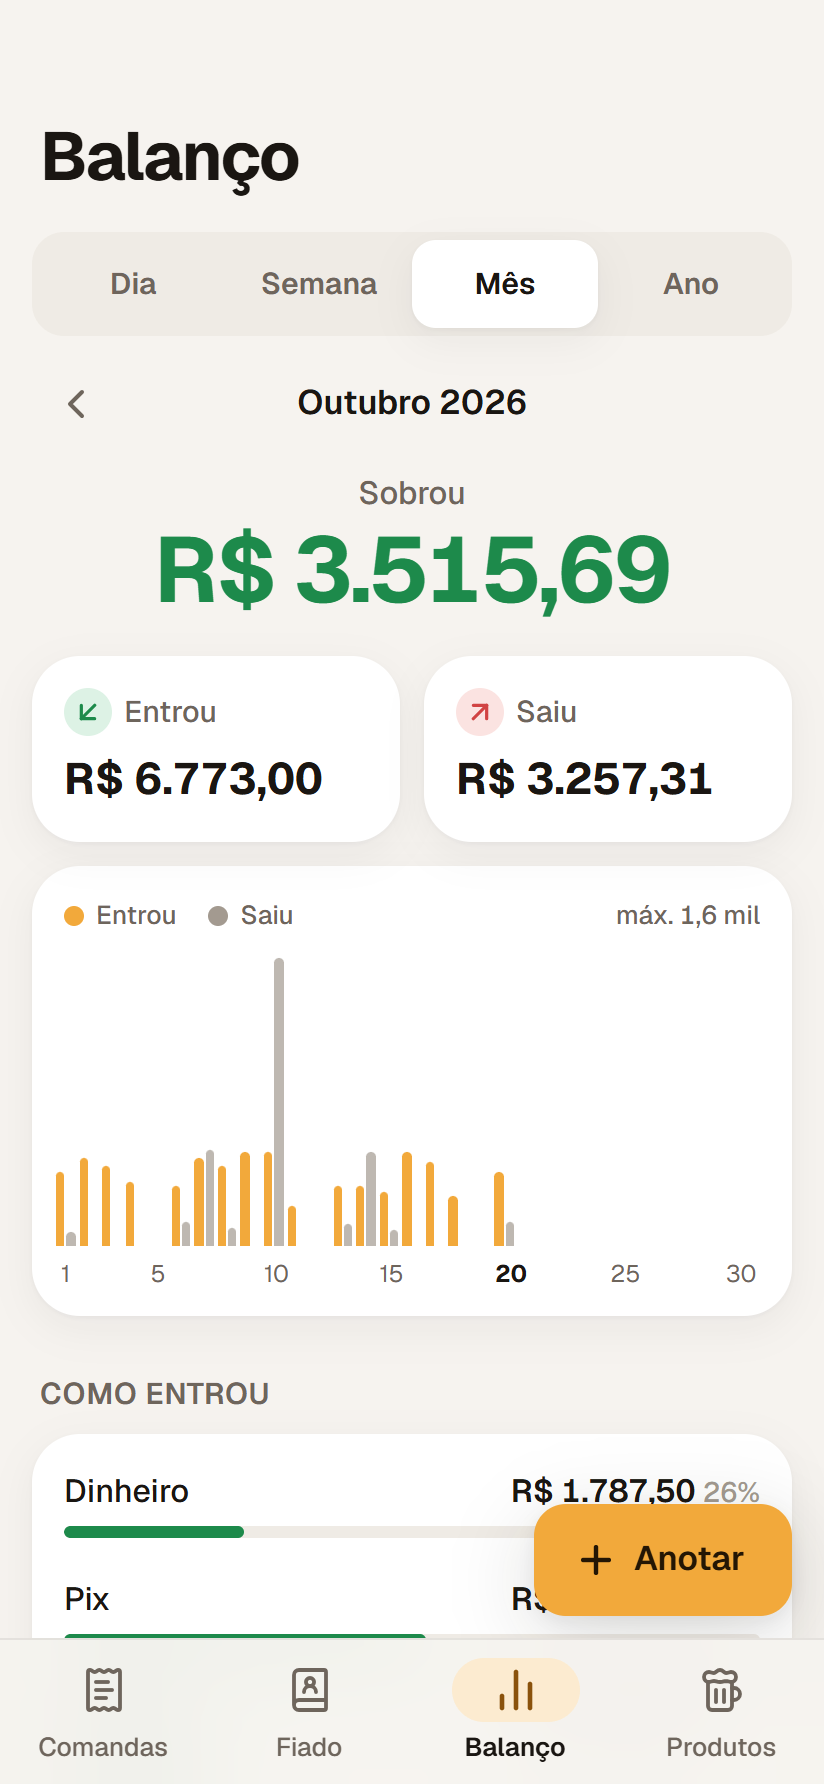
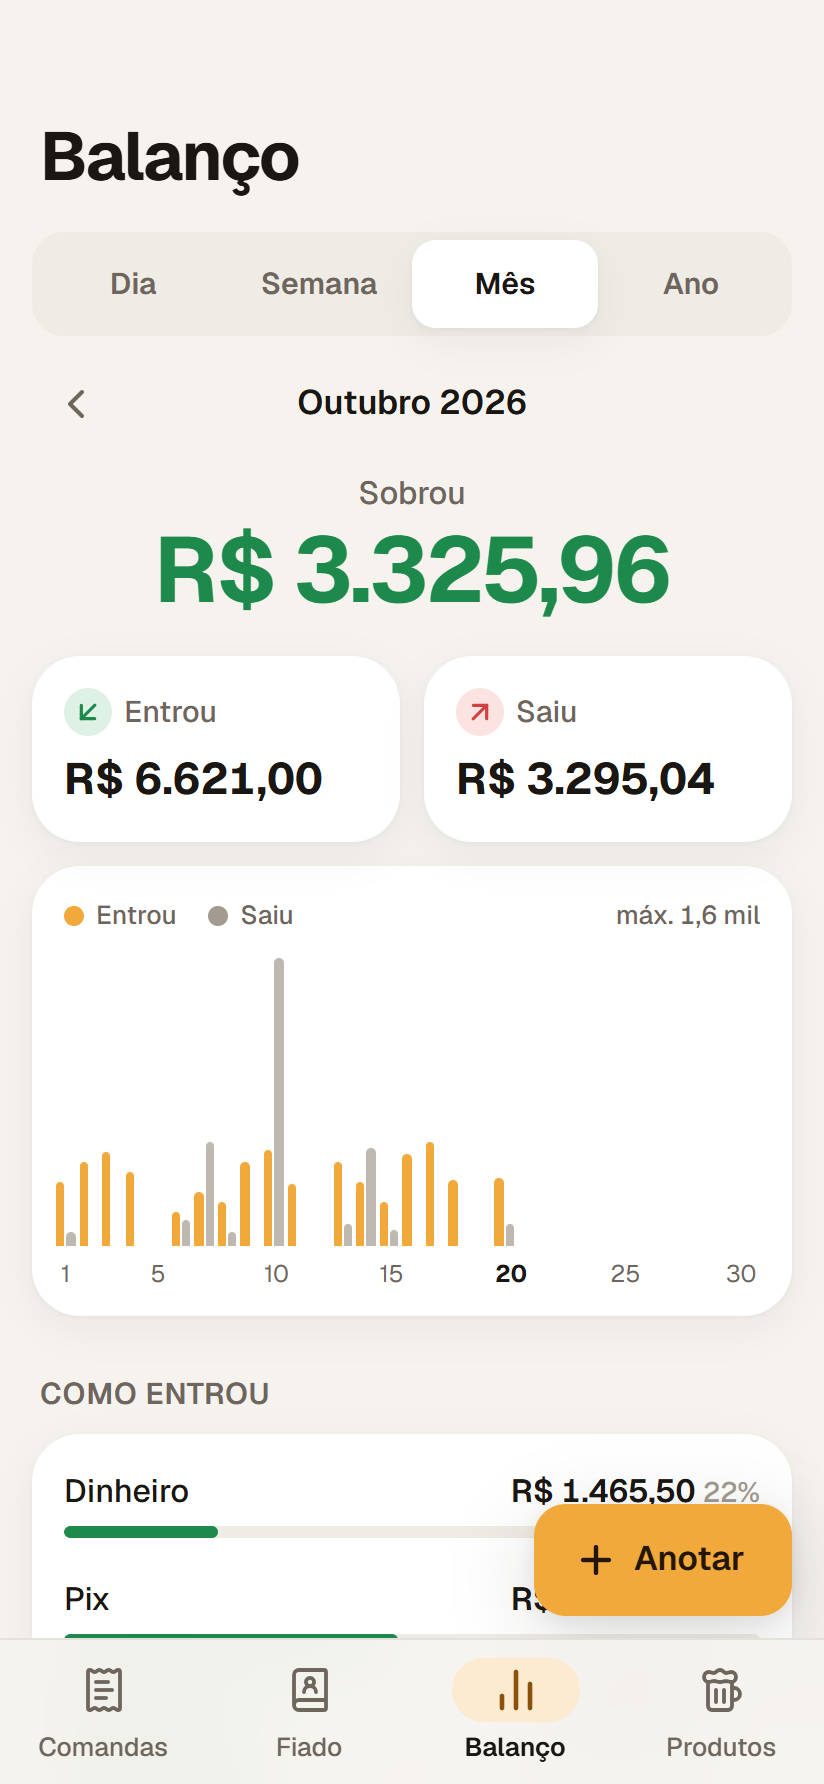
Nova comanda só pelo nome (o bar não tem mesas numeradas)
- Painel Nova comanda com apenas o campo de nome, já focado
- Aviso com atalho quando o nome já tem comanda aberta
- Dados demo sem mesas; prints, manual, README e changelog atualizados

diff --git a/src/pages/Comandas.tsx b/src/pages/Comandas.tsx
@@ -5,7 +5,7 @@ import { ChevronRight, Plus, ReceiptText } from "lucide-react";
 import { useDados } from "@/context/DadosContext";
 import { CabecalhoAba } from "@/components/Cabecalho";
 import { Sheet } from "@/components/Sheet";
-import { Botao, BotaoFlutuante, Campo, Cartao, Chip, Vazio } from "@/components/ui";
+import { Botao, BotaoFlutuante, Campo, Cartao, Vazio } from "@/components/ui";
 import { reais, totalItens } from "@/lib/dinheiro";
 import { haQuantoTempo } from "@/lib/datas";
 
@@ -71,22 +71,19 @@ export function Comandas() {
   );
 }
 
-/** Painel "Nova comanda": um toque num atalho já abre; ou digita um nome. */
+/** Painel "Nova comanda": digita o nome da pessoa e abre (o bar não tem mesas numeradas). */
 function NovaComanda({ aberto, onFechar }: { aberto: boolean; onFechar: () => void }) {
-  const { comandas, clientes, abrirComanda } = useDados();
+  const { comandas, abrirComanda } = useDados();
   const navigate = useNavigate();
   const [nome, setNome] = useState("");
 
-  // Atalhos: mesas e balcão livres + clientes do fiado (sem repetir o que já está aberto)
-  const abertos = new Set(comandas.map((c) => c.nome.toLowerCase()));
-  const atalhos = [...["Mesa 1", "Mesa 2", "Mesa 3", "Mesa 4", "Mesa 5", "Mesa 6", "Balcão"], ...clientes.map((c) => c.nome)].filter(
-    (n) => !abertos.has(n.toLowerCase()),
-  );
+  // Avisa se já existe comanda aberta com o mesmo nome (evita duas para a mesma pessoa)
+  const repetida = comandas.find((c) => c.nome.toLowerCase() === nome.trim().toLowerCase());
 
   /** Cria a comanda e já entra nela. */
-  function abrir(n: string) {
-    if (!n.trim()) return;
-    const c = abrirComanda(n);
+  function abrir() {
+    if (!nome.trim()) return;
+    const c = abrirComanda(nome);
     setNome("");
     onFechar();
     navigate(`/comanda/${c.id}`);
@@ -98,7 +95,7 @@ function NovaComanda({ aberto, onFechar }: { aberto: boolean; onFechar: () => vo
       onFechar={onFechar}
       titulo="Nova comanda"
       rodape={
-        <Botao bloco onClick={() => abrir(nome)} disabled={!nome.trim()} className="disabled:opacity-40">
+        <Botao bloco onClick={abrir} disabled={!nome.trim()} className="disabled:opacity-40">
           Abrir comanda
         </Botao>
       }
@@ -106,24 +103,32 @@ function NovaComanda({ aberto, onFechar }: { aberto: boolean; onFechar: () => vo
       <form
         onSubmit={(e) => {
           e.preventDefault();
-          abrir(nome);
+          abrir();
         }}
       >
-        <Campo rotulo="Nome ou mesa" placeholder="Ex.: Mesa 3 ou Seu Zé" value={nome} onChange={(e) => setNome(e.target.value)} autoCapitalize="words" enterKeyHint="go" />
+        <Campo
+          rotulo="Nome"
+          placeholder="Ex.: Seu Zé"
+          value={nome}
+          onChange={(e) => setNome(e.target.value)}
+          autoCapitalize="words"
+          enterKeyHint="go"
+          autoFocus
+        />
       </form>
 
-      {/* Atalhos de um toque */}
-      {atalhos.length > 0 && (
-        <>
-          <p className="mt-6 mb-3 text-[15px] font-medium text-texto-2">Ou toque para abrir</p>
-          <div className="flex flex-wrap gap-2">
-            {atalhos.map((a) => (
-              <Chip key={a} onClick={() => abrir(a)}>
-                {a}
-              </Chip>
-            ))}
-          </div>
-        </>
+      {/* Aviso de nome repetido, com atalho para a comanda que já está aberta */}
+      {repetida && (
+        <button
+          onClick={() => {
+            setNome("");
+            onFechar();
+            navigate(`/comanda/${repetida.id}`);
+          }}
+          className="mt-3 w-full rounded-2xl bg-marca-suave px-4 py-3 text-left text-[15px] text-marca-tinta active:scale-[0.98]"
+        >
+          {repetida.nome} já tem uma comanda aberta. <span className="font-semibold">Abrir a dela</span>
+        </button>
       )}
     </Sheet>
   );

diff --git a/src/lib/seed.ts b/src/lib/seed.ts
@@ -62,9 +62,9 @@ export function dadosDemo() {
 
   // Comandas abertas agora
   const comandas: Comanda[] = [
-    { id: uid(), criadoEm: agora - 42 * 60_000, nome: "Mesa 2", itens: [item("Brahma 600 ml", 2), item("Torresmo", 1), item("Pinga (dose)", 1)] },
+    { id: uid(), criadoEm: agora - 42 * 60_000, nome: "Carlão", itens: [item("Brahma 600 ml", 2), item("Torresmo", 1), item("Pinga (dose)", 1)] },
     { id: uid(), criadoEm: agora - 15 * 60_000, nome: "Seu Zé", itens: [item("Original 600 ml", 1), item("Amendoim", 1)] },
-    { id: uid(), criadoEm: agora - 3 * 60_000, nome: "Balcão", itens: [item("Coca-Cola lata", 1)] },
+    { id: uid(), criadoEm: agora - 3 * 60_000, nome: "Marquinhos", itens: [item("Coca-Cola lata", 1)] },
   ];
 
   // Clientes do fiado e o histórico de cada um
@@ -88,6 +88,7 @@ export function dadosDemo() {
   pagamento(clientes[2], 5, 3600);
 
   // Histórico de vendas e gastos dos últimos 14 meses (para o Balanço ter vida)
+  const FREGUESES = ["Carlão", "Marquinhos", "Seu Zé", "Dona Lúcia", "Tião", "Neguinho", "Fernando", "Toninho"];
   const formas: FormaPagamento[] = ["dinheiro", "pix", "pix", "cartao"];
   const gastos: [CategoriaGasto, number, number][] = [
     ["Bebidas", 3, 52000],
@@ -109,7 +110,7 @@ export function dadosDemo() {
       lancamentos.push({
         id: uid(), criadoEm: momento, tipo: "entrada", data: momento, origem: "comanda",
         valor: Math.round((1500 + sorte() * 5500) / 50) * 50,
-        forma: formas[Math.floor(sorte() * formas.length)], descricao: v % 3 === 0 ? "Balcão" : `Mesa ${1 + Math.floor(sorte() * 6)}`,
+        forma: formas[Math.floor(sorte() * formas.length)], descricao: FREGUESES[Math.floor(sorte() * FREGUESES.length)],
       });
     }
     // Compras da semana distribuídas pelos dias

diff --git a/src/types.ts b/src/types.ts
@@ -27,7 +27,7 @@ export interface ItemComanda {
   qtd: number;
 }
 
-/** Comanda aberta (mesa ou pessoa). Ao fechar, vira lançamento ou fiado e é apagada. */
+/** Comanda aberta no nome de uma pessoa. Ao fechar, vira lançamento ou fiado e é apagada. */
 export interface Comanda extends Entidade {
   nome: string;
   itens: ItemComanda[];

diff --git a/README.md b/README.md
@@ -33,7 +33,7 @@ App instalável (PWA) feito para o dia a dia de um bar de vila: abre comanda num
 
 Todo boteco pequeno tem o mesmo caderno: a comanda anotada no guardanapo, o fiado do cliente fiel numa página rabiscada e, no fim do mês, a dúvida de sempre: **sobrou dinheiro ou não?**
 
-O Komicho Bar troca esse caderno por um app que qualquer pessoa da família consegue usar. Abrir uma comanda é tocar em "Mesa 2". Somar uma cerveja é tocar no botão da cerveja. Fechar a conta é escolher Dinheiro, Pix, Cartão ou Fiado, e o app faz o resto: calcula o troco, pendura na conta do cliente ou lança a venda no Balanço sozinho.
+O Komicho Bar troca esse caderno por um app que qualquer pessoa da família consegue usar. Abrir uma comanda é digitar o nome do freguês. Somar uma cerveja é tocar no botão da cerveja. Fechar a conta é escolher Dinheiro, Pix, Cartão ou Fiado, e o app faz o resto: calcula o troco, pendura na conta do cliente ou lança a venda no Balanço sozinho.
 
 O diferencial está no acabamento. O visual segue o padrão dos melhores apps nativos (Apple e Google): painéis que sobem de baixo com efeito de mola, título grande que encolhe ao rolar, vibração leve ao tocar, modo escuro pensado para a noite no bar e botões grandes, porque quem usa está atrás do balcão, com pressa. Tudo que apaga tem "Desfazer", e o app abre mesmo sem internet.
 
@@ -69,7 +69,7 @@ O diferencial está no acabamento. O visual segue o padrão dos melhores apps na
 
 ## Funcionalidades
 
-- 🍺 **Comandas** por nome ou mesa, abertas com um toque (atalhos de mesas, balcão e clientes do fiado)
+- 🍺 **Comandas** no nome do freguês, com aviso se já houver uma aberta para a mesma pessoa
 - ➕ **Grade de produtos** por categoria: cada toque soma 1, com contador no botão e ajuste de − / +
 - 💵 **Fechar conta** em Dinheiro (com cálculo de troco), Pix, Cartão ou Fiado, com desconto opcional
 - 📒 **Fiado**: saldo de cada cliente, histórico com os itens de cada comanda, receber pagamento (total ou parcial) e anotar valor avulso

diff --git a/CHANGELOG.md b/CHANGELOG.md
@@ -8,6 +8,7 @@ Mudanças do Komicho Bar, da mais recente para a mais antiga.
 - Login só com Google e só `danyy.jonathan@gmail.com`; a lista de permitidos nunca fica vazia.
 - Escolha de conta Google sempre aparece ao entrar.
 - Regras do Firestore publicadas: exigem o ID da conta do dono e o e-mail verificado.
+- Nova comanda só pelo nome da pessoa (o bar não tem mesas numeradas): saíram os atalhos de mesas e balcão; o app avisa se o nome já tem comanda aberta.
 - O app real sempre usa a nuvem; o armazenamento local ficou só para o modo demo.
 
 ## 0.1.0 — 20/10/2026

diff --git a/docs/manual.md b/docs/manual.md
@@ -6,7 +6,7 @@ Guia rápido para quem trabalha no balcão. O app tem 4 abas no rodapé: **Coman
 
 **Abrir uma comanda**
 1. Toque em **Nova comanda** (botão amarelo).
-2. Toque numa mesa ou no nome do cliente. Se não tiver na lista, digite o nome e toque em **Abrir comanda**.
+2. Digite o nome da pessoa e toque em **Abrir comanda**. Se já houver uma comanda aberta com esse nome, o app avisa e oferece abrir a dela.
 
 **Adicionar o que a pessoa pediu**
 - Escolha a categoria (Cervejas, Destilados...) e toque no produto. **Cada toque soma 1.**
